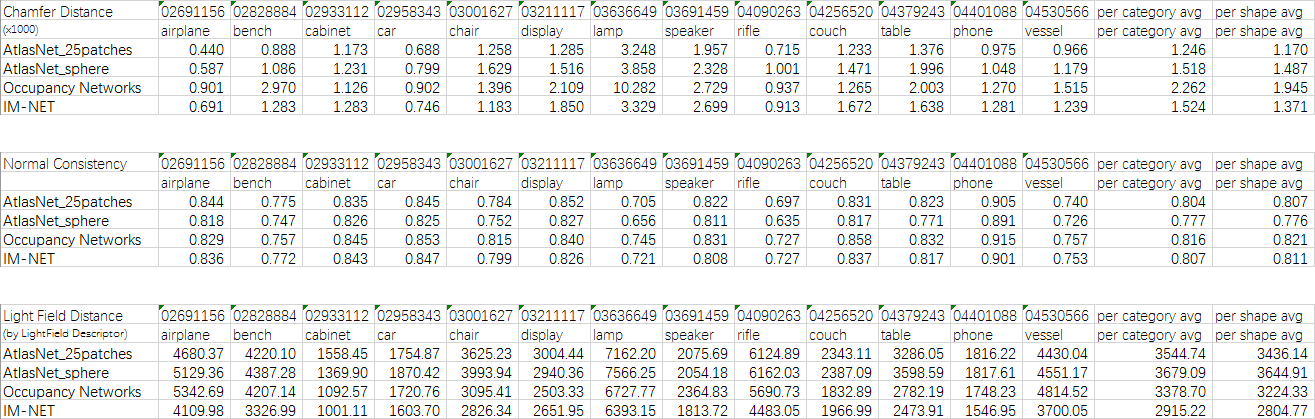
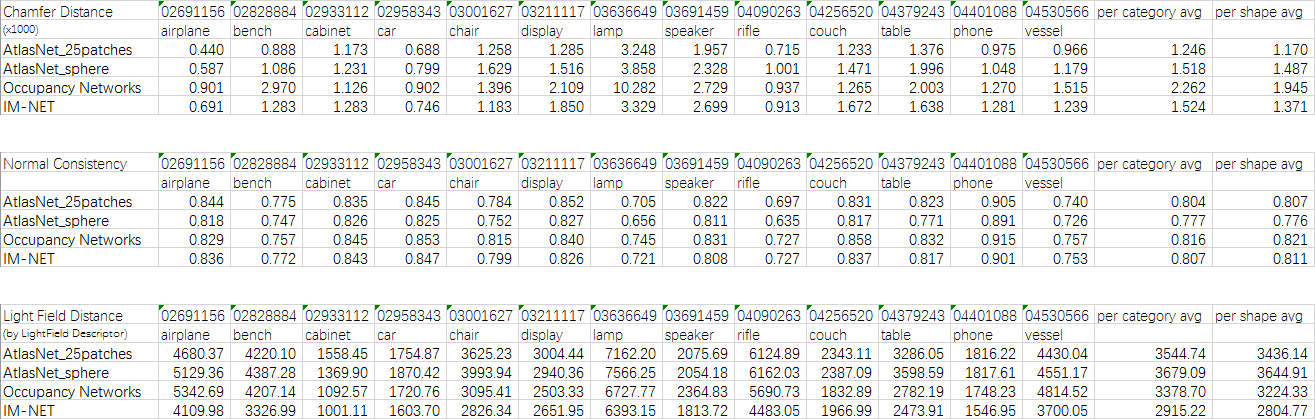
Add LFD numbers

Changed region(s): [[0.8418, 0.7757, 0.9977, 0.8377], [0.8418, 0.4033, 0.9977, 0.4654], [0.8106, 0.0621, 0.9977, 0.0931]]

diff --git a/README.md b/README.md
@@ -75,12 +75,12 @@ Backup links:
 
 ## Evaluation results
 
-The quantitative evaluation results comparing to [AtlasNet](https://github.com/ThibaultGROUEIX/AtlasNet) and [Occupancy Networks](https://github.com/autonomousvision/occupancy_networks), are as follows.
+The quantitative evaluation results comparing to [AtlasNet](https://github.com/ThibaultGROUEIX/AtlasNet) and [Occupancy Networks](https://github.com/autonomousvision/occupancy_networks) are as follows.
 We report Chamfer Distance, Normal Consistency on the pointclouds mentioned above, and the Light Field Distance (LFD) produced by [LightField descriptor](https://github.com/Sunwinds/ShapeDescriptor/tree/master/LightField/3DRetrieval_v1.8/3DRetrieval_v1.8).
 
 <img src='img/eval.png' />
 
-(Note that [the code for LightField descriptor](https://github.com/Sunwinds/ShapeDescriptor/tree/master/LightField/3DRetrieval_v1.8/3DRetrieval_v1.8). is written in C and the executable only does closest shape retrieval according to the Light Field Distance. If you want to use it in your own experiments, you might need to change some lines to get the actual distance and recompile the code.)
+(Note that [the code for LightField descriptor](https://github.com/Sunwinds/ShapeDescriptor/tree/master/LightField/3DRetrieval_v1.8/3DRetrieval_v1.8) is written in C and the executable only does closest shape retrieval according to the Light Field Distance. If you want to use it in your own experiments, you might need to change some lines to get the actual distance and recompile the code.)
 
 
 ## Usage
